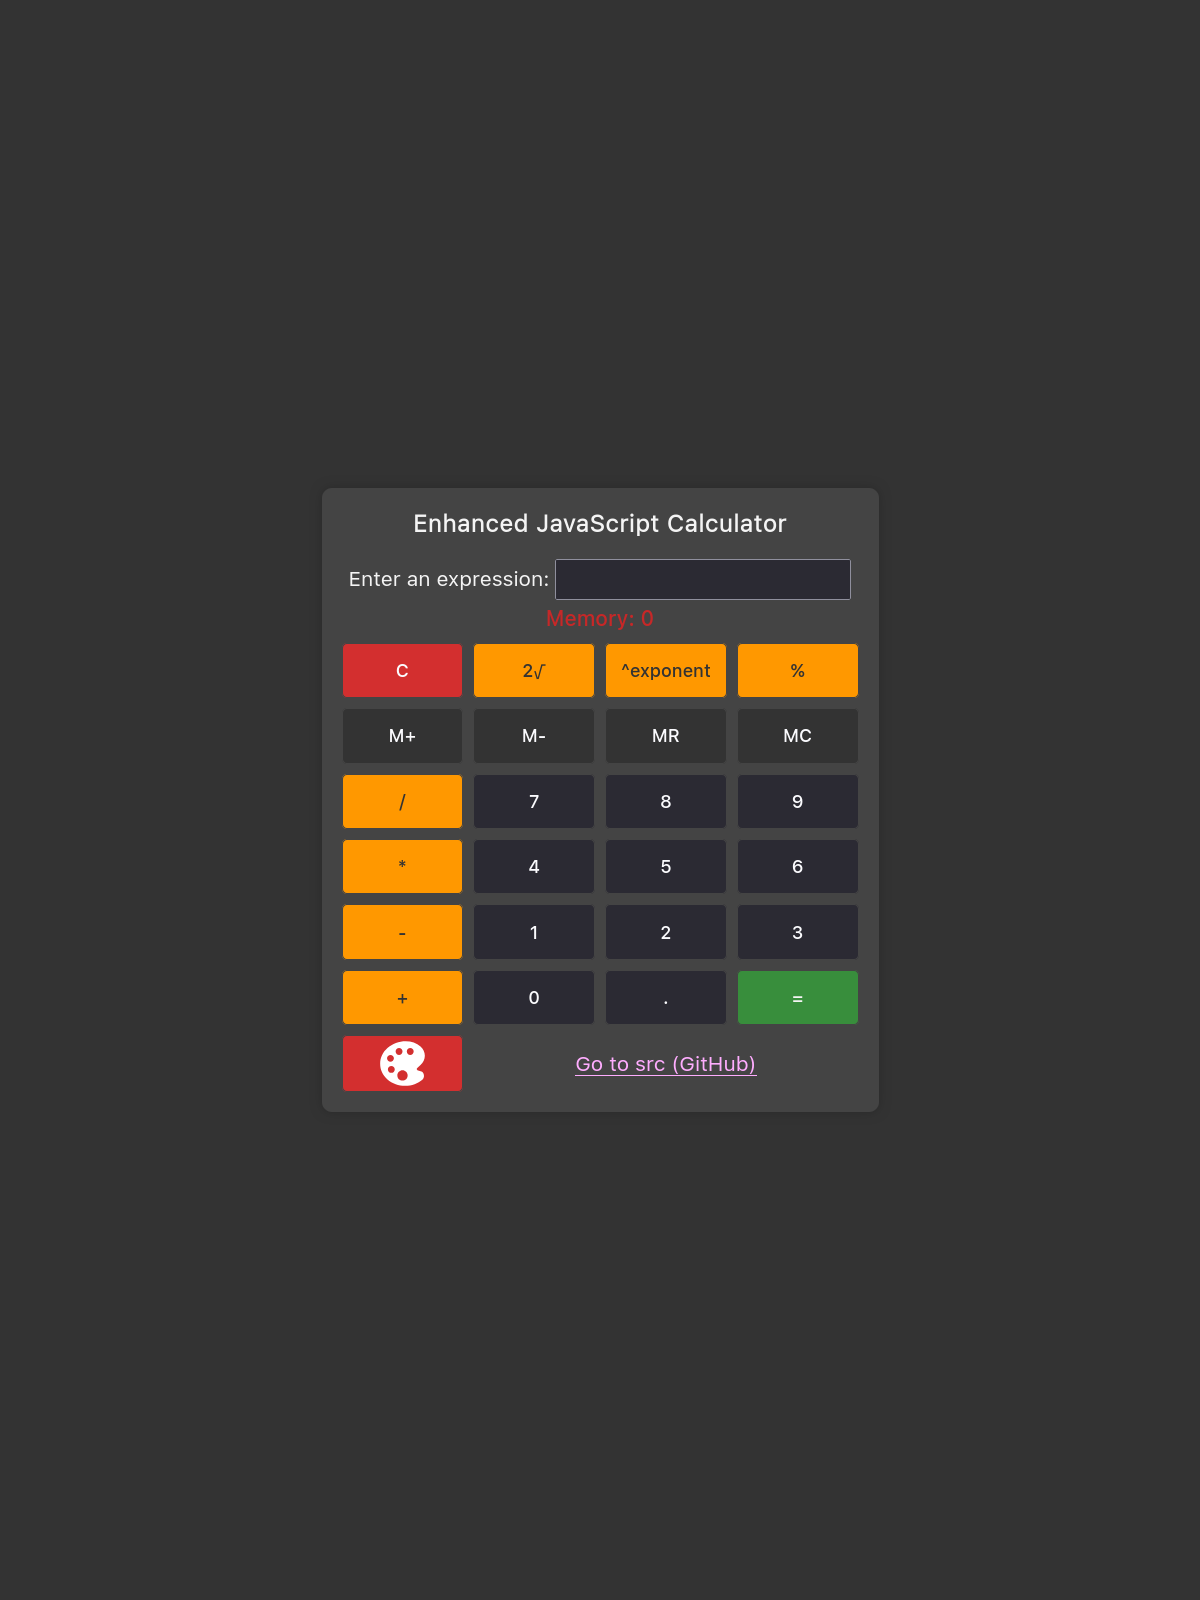
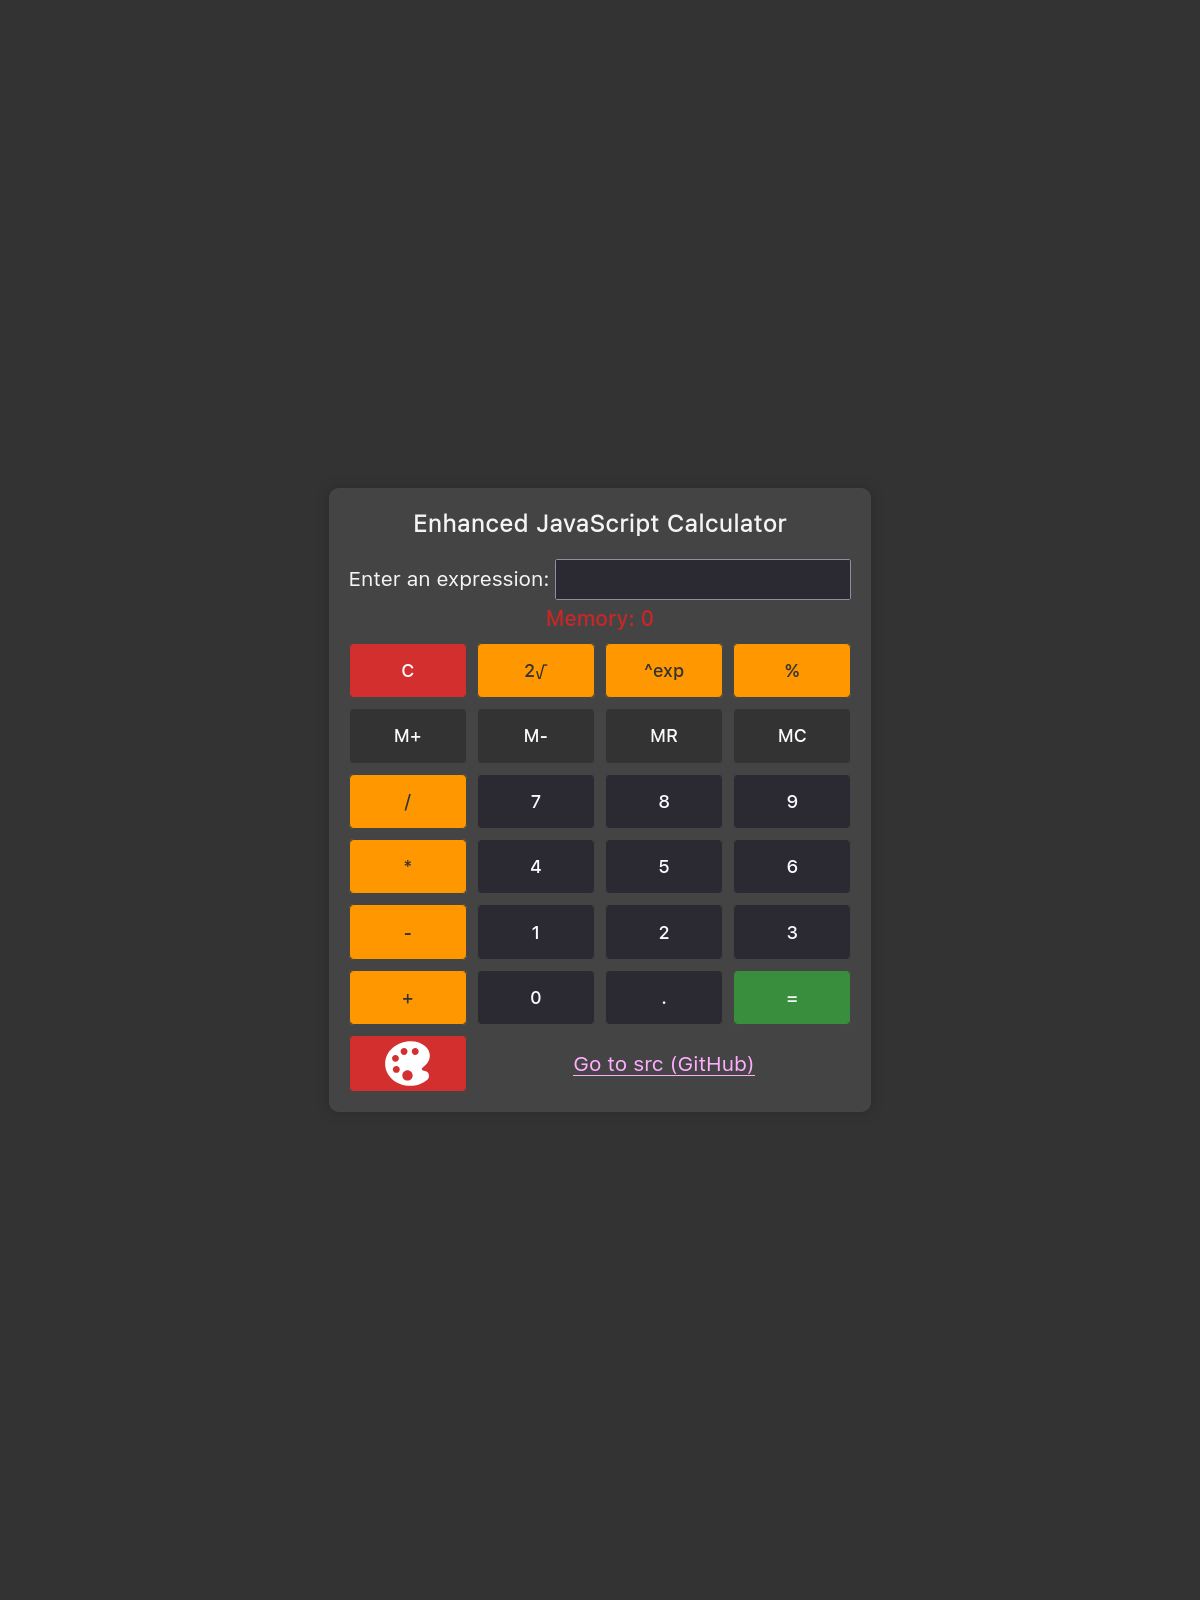
chore: update screenshots, rename exponent operator label, extend service worker cache
- Replace all screenshots with updated versions
- Rename exponent operator label from "^exponent" to "^exp" in UI and logic
- Update README.md to reflect label change
- Add screenshots and /404.html to STATIC_ASSETS in service-worker

diff --git a/src/service-worker.js b/src/service-worker.js
@@ -2,6 +2,7 @@ const CACHE_NAME = 'sw-cache-__swTimestamp__';
 const STATIC_ASSETS = [
   '/',
   '/index.html',
+  '/404.html',
   '/no-data-error.html',
   '/main.css',
   '/main.js',
@@ -18,16 +19,18 @@ const STATIC_ASSETS = [
   '/icon-192.png',
   '/icon-512.png',
   '/icon-mask.png',
+  '/screenshot-desktop.png',
+  '/screenshot-mobile.png',
+  '/screenshot-mobile-light.png',
+  '/screenshot-tablet.png',
   '/manifest.webmanifest'
 ];
 
 self.addEventListener('install', (event) => {
   event.waitUntil(
-    caches.open(CACHE_NAME)
-      .then((cache) => cache.addAll(STATIC_ASSETS))
-      .catch((err) => {
-        console.log('serviceWorker install error:', err);
-      })
+    caches.open(CACHE_NAME).then((cache) => cache.addAll(STATIC_ASSETS)).catch((err) => {
+      console.log('serviceWorker install error:', err);
+    })
   );
   self.skipWaiting();
 });
@@ -35,19 +38,17 @@ self.addEventListener('install', (event) => {
 self.addEventListener('activate', (event) => {
   try {
     event.waitUntil(
-      caches.keys()
-        .then(cacheNames => {
-          const promises = [];
+      caches.keys().then(cacheNames => {
+        const promises = [];
 
-          for (const name of cacheNames) {
-            if (name !== CACHE_NAME) {
-              promises.push(caches.delete(name));
-            }
+        for (const name of cacheNames) {
+          if (name !== CACHE_NAME) {
+            promises.push(caches.delete(name));
           }
+        }
 
-          return Promise.all(promises);
-        })
-        .then(() => self.clients.claim())
+        return Promise.all(promises);
+      }).then(() => self.clients.claim())
     );
   } catch (err) {
     console.error('serviceWorker activate error:', err);

diff --git a/src/main.js b/src/main.js
@@ -28,7 +28,7 @@ const buttonsLogic = {
   '.': {action: () => appendToDisplay('.')},
   '=': {action: () => calculateResult()},
   '2√': {action: () => appendToDisplay('√')},
-  '^exponent': {action: () => appendToDisplay('^')},
+  '^exp': {action: () => appendToDisplay('^')},
   '%': {action: () => appendToDisplay('%')},
   'M+': {action: () => addToMemory()},
   'M-': {action: () => subtractFromMemory()},

diff --git a/src/index.html b/src/index.html
@@ -36,7 +36,7 @@
   <section class="buttons-section">
     <button class="clear">C</button>
     <button class="operator">2√</button>
-    <button class="operator">^exponent</button>
+    <button class="operator">^exp</button>
     <button class="operator">%</button>
     <button class="memory-btn">M+</button>
     <button class="memory-btn">M-</button>

diff --git a/README.md b/README.md
@@ -24,7 +24,7 @@ It includes:
 - Supports basic arithmetic operations: addition (+), subtraction (-), multiplication (*), and division (/)
 - Advanced mathematical functions:
   - Square root (2√)
-  - Exponentiation (^exponent)
+  - Exponentiation (^exp)
   - Percentage calculations (%)
 - Memory functions:
   - Add to memory (M+)
